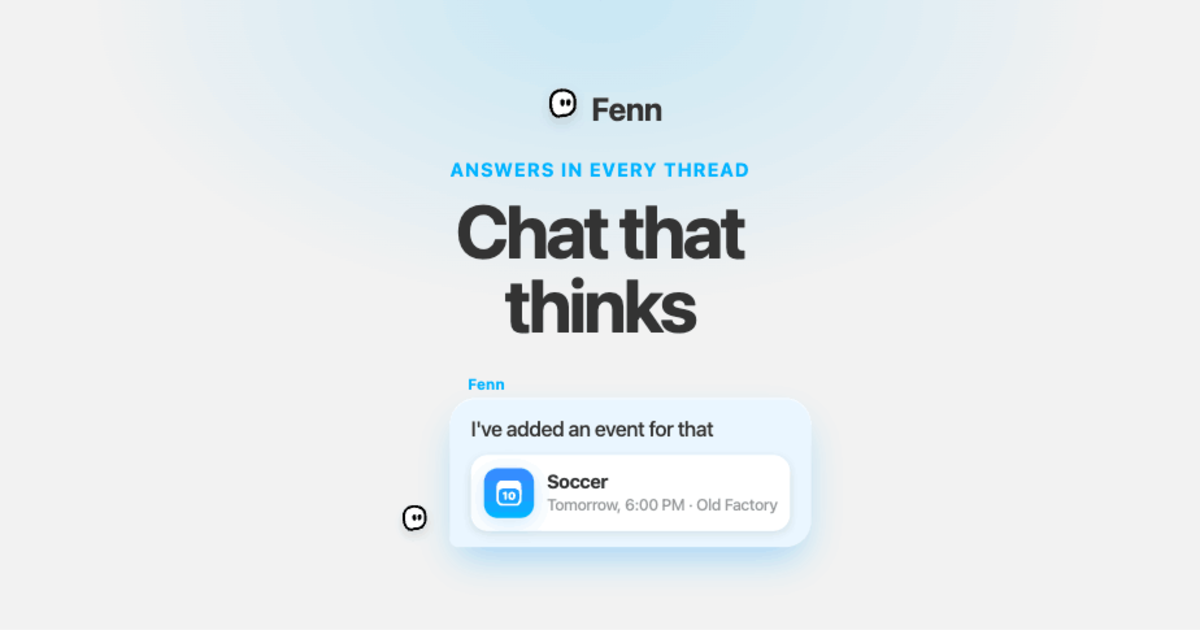
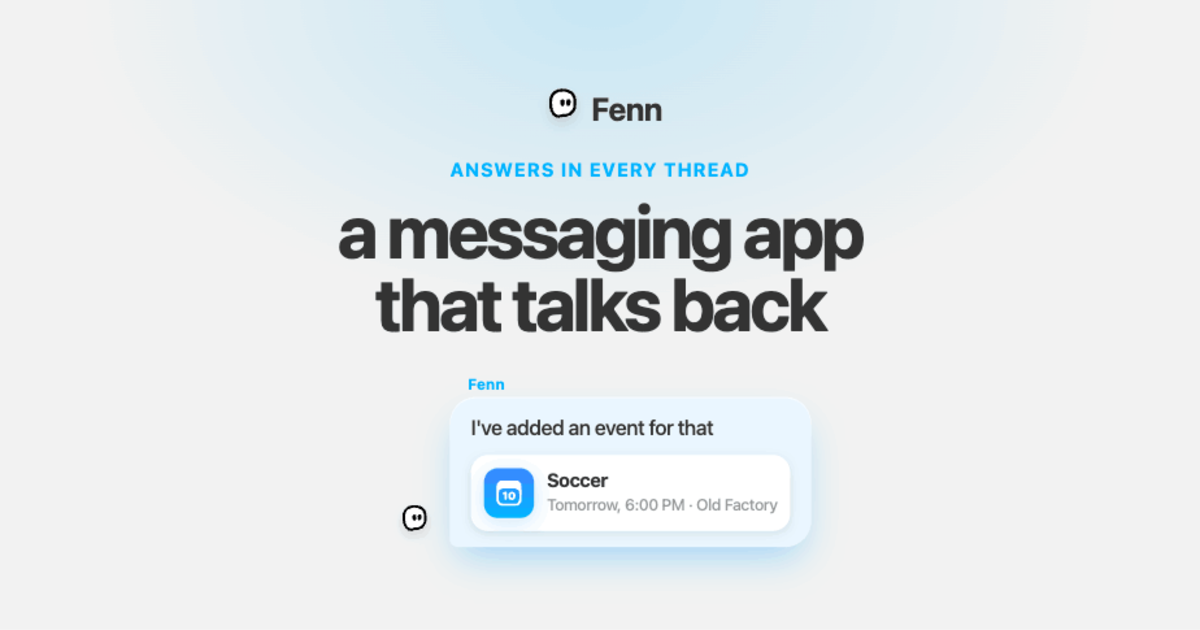
Update og-image and og-square, bump to v=7

Changed region(s): [[0.2775, 0.3016, 0.74, 0.5429], [0.4008, 0.6635, 0.6167, 0.6937], [0.4317, 0.754, 0.5242, 0.7841]]

diff --git a/index.html b/index.html
@@ -20,7 +20,7 @@
 <meta property="og:url" content="https://fenn.chat/" />
 <meta property="og:title" content="Fenn — Chat that thinks" />
 <meta property="og:description" content="Answers in every thread. Fenn lives in your conversations, answering questions, remembering details, and turning ideas into events you show up to." />
-<meta property="og:image" content="https://fenn.chat/assets/og-image.png?v=3" />
+<meta property="og:image" content="https://fenn.chat/assets/og-image.png?v=7" />
 <meta property="og:image:width" content="1200" />
 <meta property="og:image:height" content="630" />
 <meta property="og:image:alt" content="Fenn — Chat that thinks. Fenn books an event right in the conversation." />
@@ -29,7 +29,7 @@
 <meta name="twitter:card" content="summary_large_image" />
 <meta name="twitter:title" content="Fenn — Chat that thinks" />
 <meta name="twitter:description" content="Answers in every thread — right in the conversation." />
-<meta name="twitter:image" content="https://fenn.chat/assets/og-image.png?v=3" />
+<meta name="twitter:image" content="https://fenn.chat/assets/og-image.png?v=7" />
 
 <link rel="stylesheet" href="assets/colors_and_type.css" />
 <link rel="stylesheet" href="site.css" />